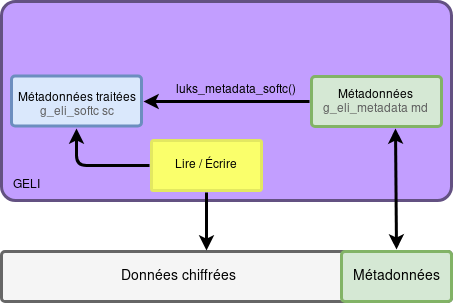
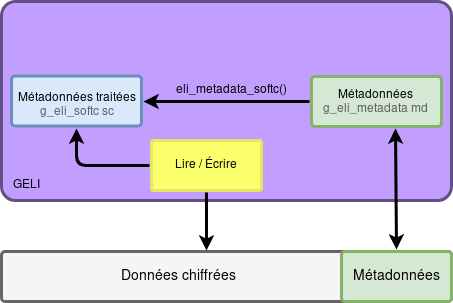
modify schemas and add new one

Changed region(s): [[0.3709, 0.2673, 0.649, 0.3267]]

diff --git a/choix_developpement/choix_developpement.tex b/choix_developpement/choix_developpement.tex
@@ -369,7 +369,15 @@ déchiffrement plus simple de la clé maître comme évoqué en \ref{sub:dechif_
 On implémente donc les différentes fonctions pour déchiffrer la clé maître à
 partir de la phrase de passe. Ce qui nous permet donc d'arriver à la création
 du disque déchiffré, après avoir traduit correctement les métadonnées de
-{\em GELI} en métadonnées {\em LUKS}.
+{\em GELI} en métadonnées {\em LUKS}, on obtient donc un fonctionnement
+comme décrit par le schéma \ref{fig:fonctionnement}
+
+
+\begin{figure}[h]
+\centering
+\includegraphics[width=\linewidth]{choix_developpement/utilisation_metadonnee_luks_2.png}
+\caption{\label{fig:fonctionnement}Fonctionnement de GEOM LUKS}
+\end{figure}
 
 \subsubsection{Champ drapeaux: \texttt{md\_flags}}
 \paragraph{}
